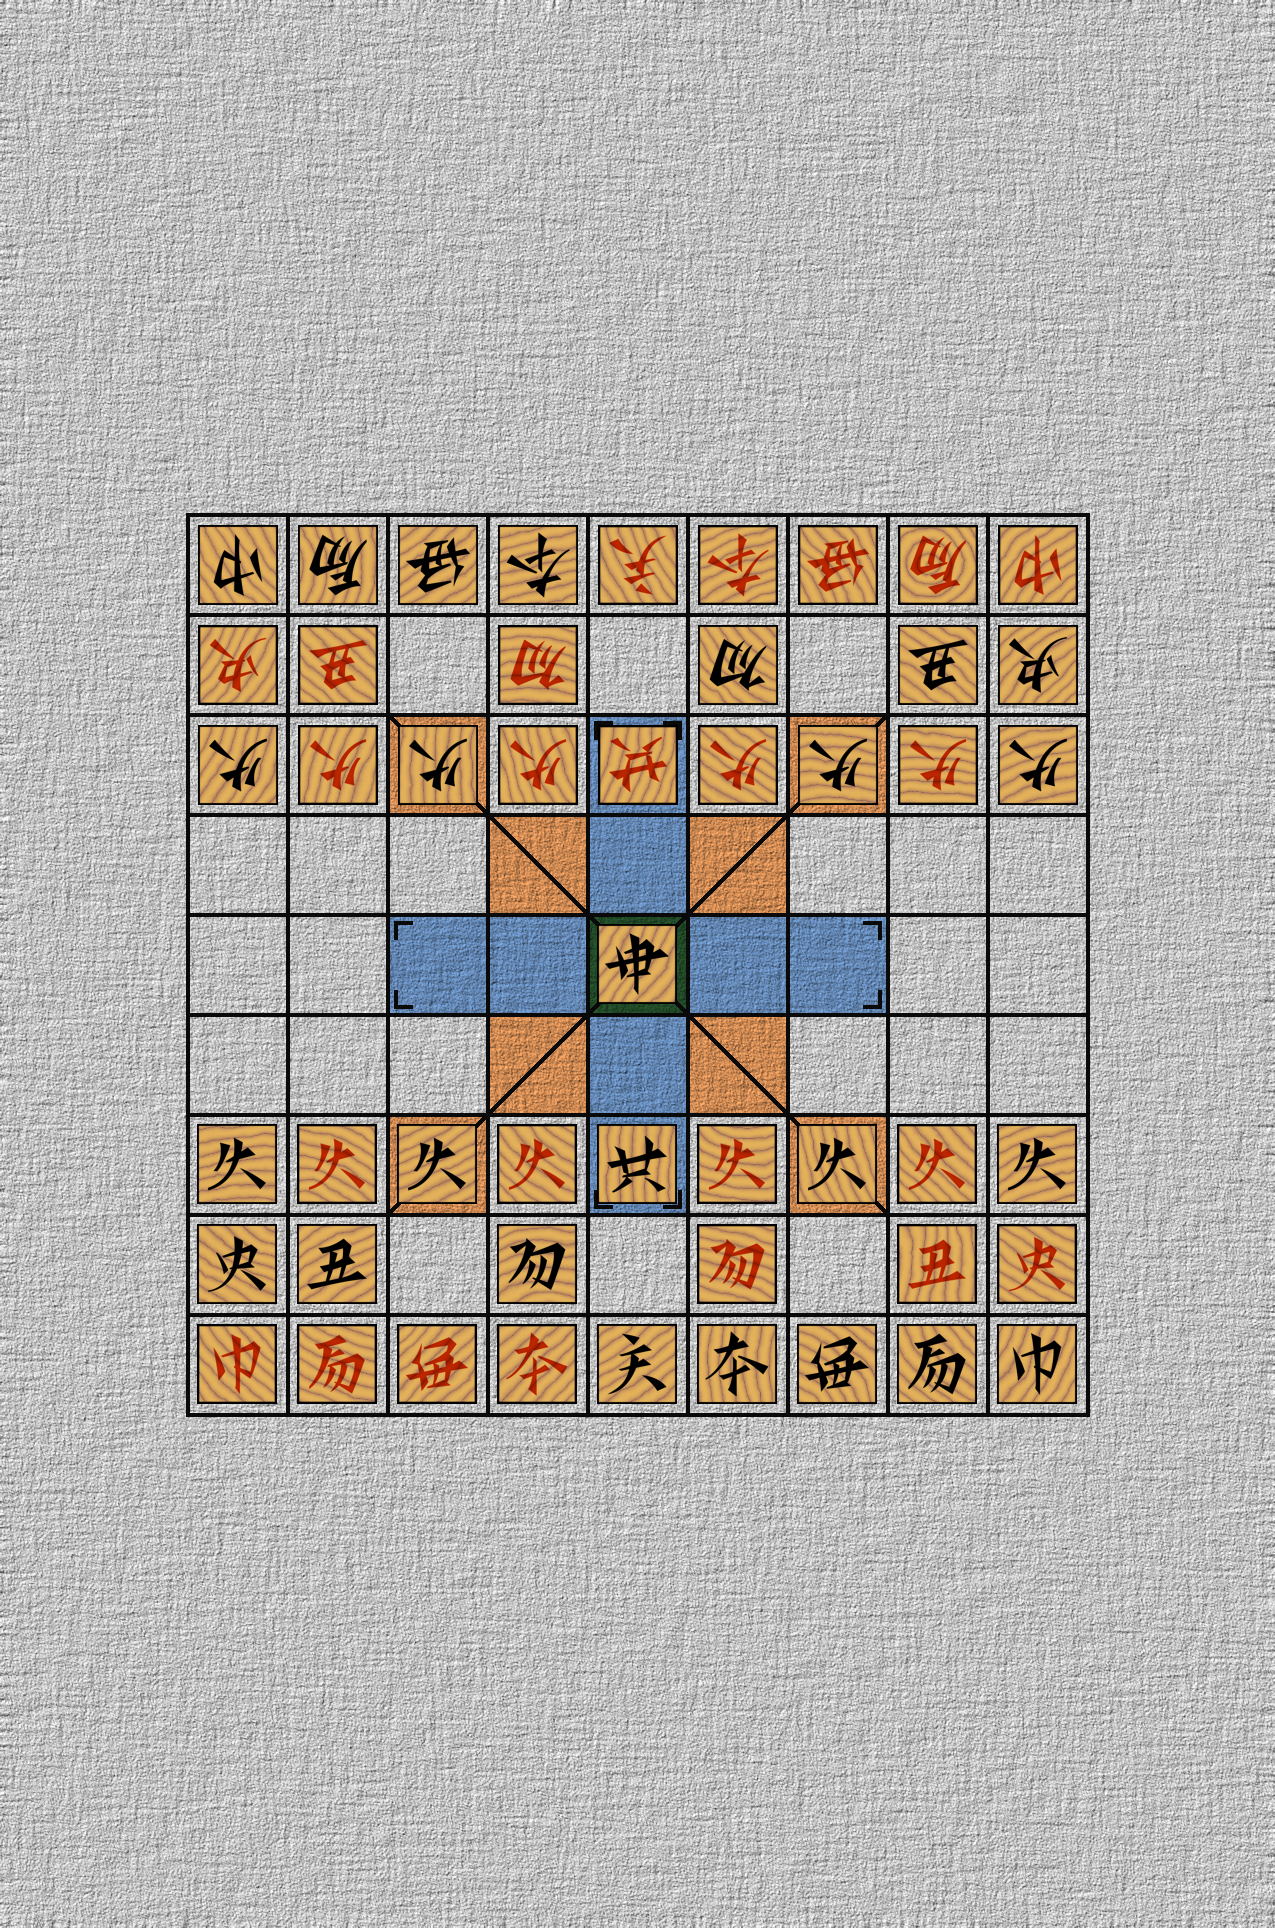
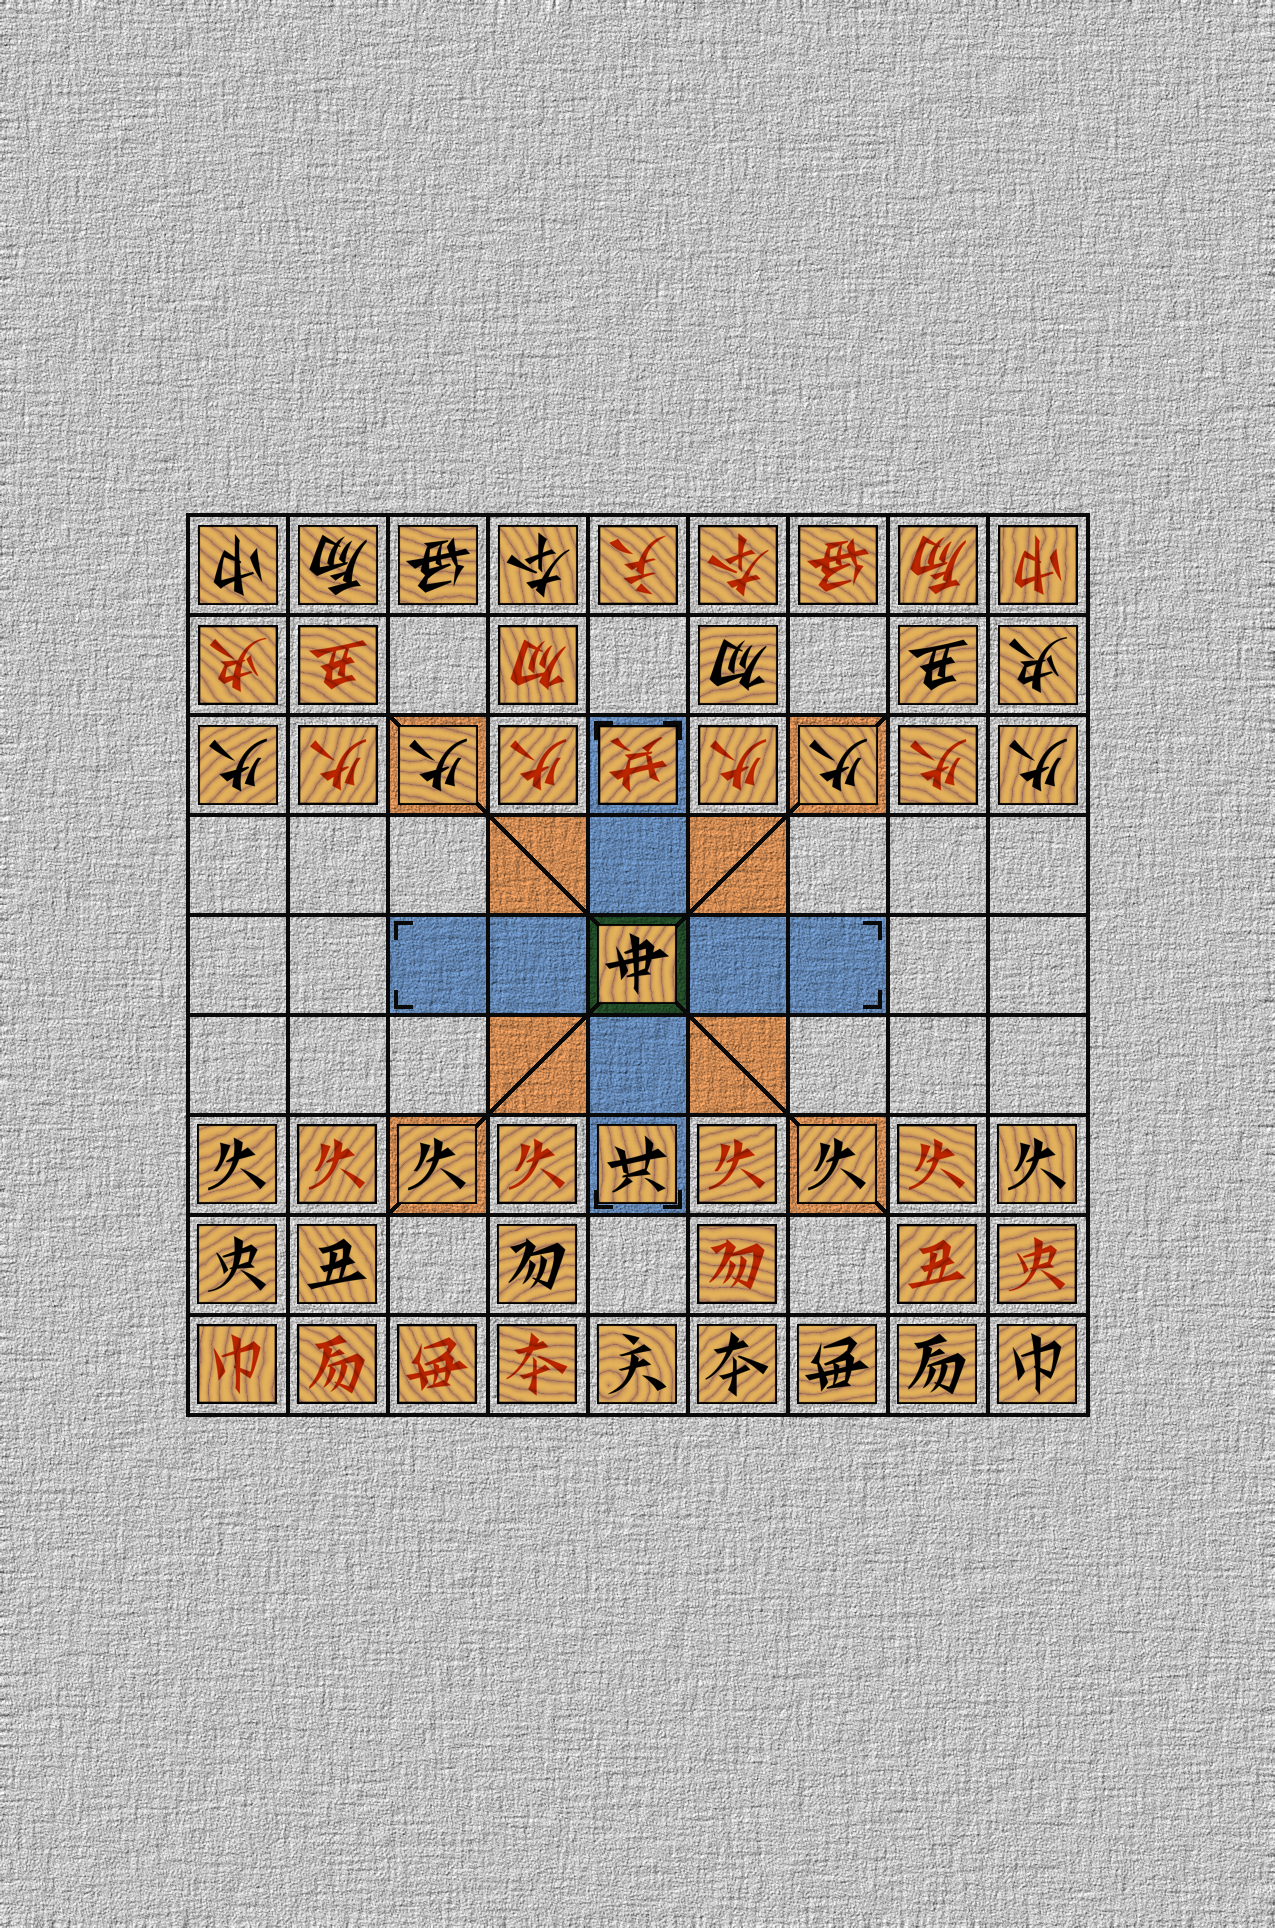
rotate the background

Changed region(s): [[0.1529, 0.2801, 0.8565, 0.4357], [0.1529, 0.5913, 0.8565, 0.7469], [0.4588, 0.4668, 0.52, 0.529]]

diff --git a/src/field/mod.rs b/src/field/mod.rs
@@ -160,7 +160,11 @@ fn load_from_80x80(data: &'static [u8], dimension: u32) -> image::RgbImage {
 impl Field {
     pub fn render(&self, down_side: Side) -> image::RgbImage {
         use crate::image::GenericImage;
-        let mut background = self.background.clone();
+        let mut background = if down_side == Side::IASide {
+            self.background.clone()
+        } else {
+            image::imageops::rotate180(&self.background)
+        };
         let (width, height) = background.dimensions();
 
         for (row, col) in self.field.keys() {
